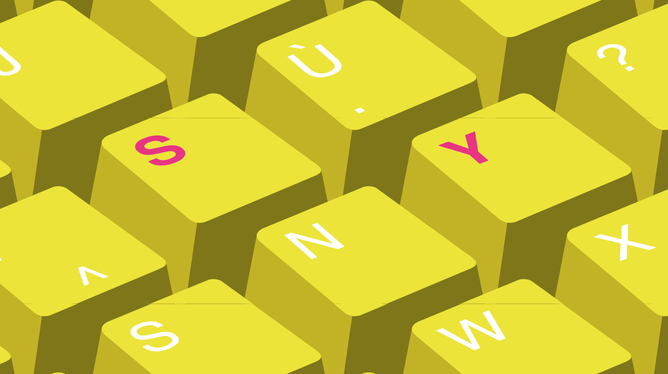
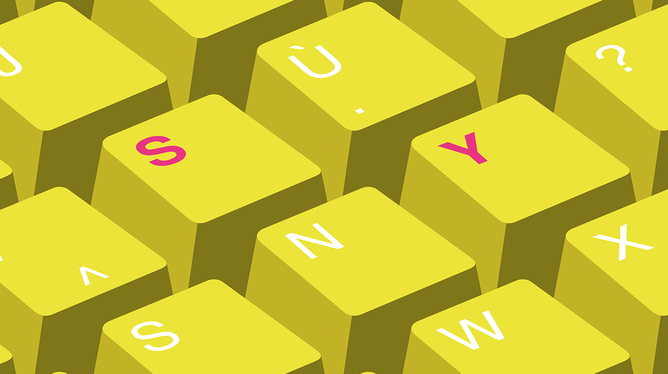
Catalogue : nouveau fond 10, sans libelle sur les vignettes de fonds et d'objets
Le fond 10 est remplace par la version livree le 6 octobre (meme
format, 3584 x 715) ; sa vignette est redecoupee comme les autres.

Dans l'editeur, les vignettes ne portent plus de texte alternatif ni
d'infobulle : leurs libelles (« Fond 10 », « obj-001 »...) n'apprennent
rien et s'affichaient au toucher.

diff --git a/apps/kiosk/src/screens/touch/EditorStep.tsx b/apps/kiosk/src/screens/touch/EditorStep.tsx
@@ -1,5 +1,5 @@
 import { useEffect, useMemo, useState } from 'react'
-import { Anchor, Box, Button, ColorPicker, Modal, Paper, Text, Tooltip, UnstyledButton } from '@mantine/core'
+import { Anchor, Box, Button, ColorPicker, Modal, Paper, Text, UnstyledButton } from '@mantine/core'
 import { IconRefresh, IconTrash } from '@tabler/icons-react'
 import { AssetSwiper } from '../../components/AssetSwiper'
 import { Ribbon } from '../../components/chrome/Ribbon'
@@ -43,7 +43,7 @@ const COLOR_SWATCHES = [
 
 export function EditorStep() {
   const { api, bus } = useApp()
-  const { t, pick, locale } = useI18n()
+  const { t, locale } = useI18n()
   const {
     catalog, layers, selectedIndex, sessionId, firstName,
     setBackground, addObject, updateLayer, removeLayer, resetLayer, select, clearDesign,
@@ -163,11 +163,9 @@ export function EditorStep() {
                     <i className="color-wheel" />
                   </div>
                 ) : (
-                  <Tooltip label={pick(tile.item.label)} events={{ hover: true, focus: true, touch: true }} withArrow>
-                    <div className={`tile ${isSelected ? 'selected' : ''}`}>
-                      <img src={api.thumb(tile.item)} alt={pick(tile.item.label)} draggable={false} />
-                    </div>
-                  </Tooltip>
+                  <div className={`tile ${isSelected ? 'selected' : ''}`}>
+                    <img src={api.thumb(tile.item)} alt="" draggable={false} />
+                  </div>
                 )
               }
             />
@@ -191,11 +189,9 @@ export function EditorStep() {
                 api.track('object_added', { assetId: item.id }, sessionId)
               }}
               renderItem={(item, isSelected) => (
-                <Tooltip label={pick(item.label)} events={{ hover: true, focus: true, touch: true }} withArrow>
-                  <div className={`tile tile-object ${isSelected ? 'selected' : ''}`}>
-                    <img src={api.asset(item)} alt={pick(item.label)} draggable={false} />
-                  </div>
-                </Tooltip>
+                <div className={`tile tile-object ${isSelected ? 'selected' : ''}`}>
+                  <img src={api.asset(item)} alt="" draggable={false} />
+                </div>
               )}
             />
           </Paper>
